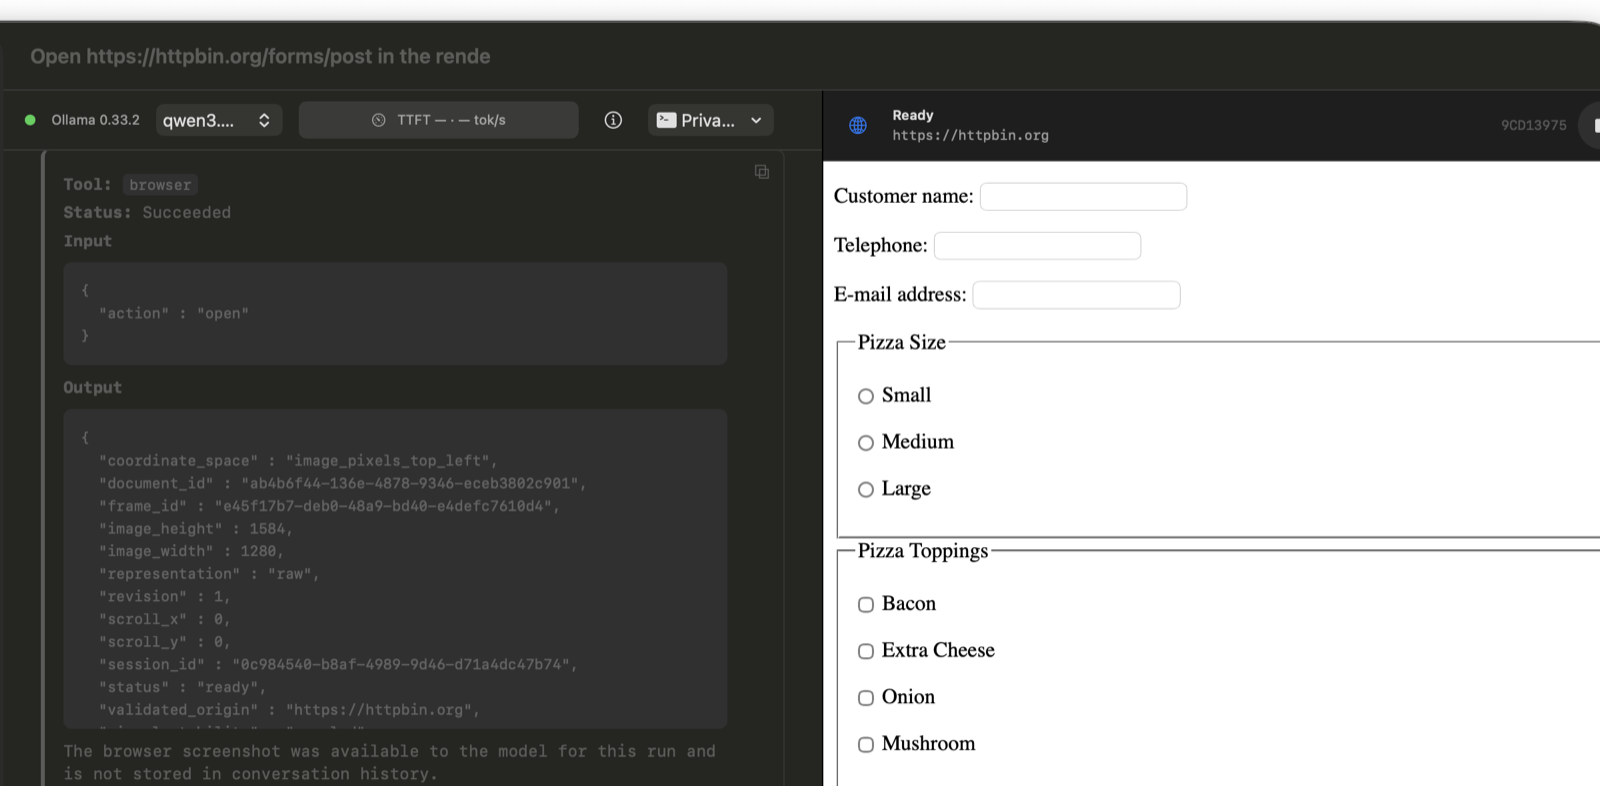
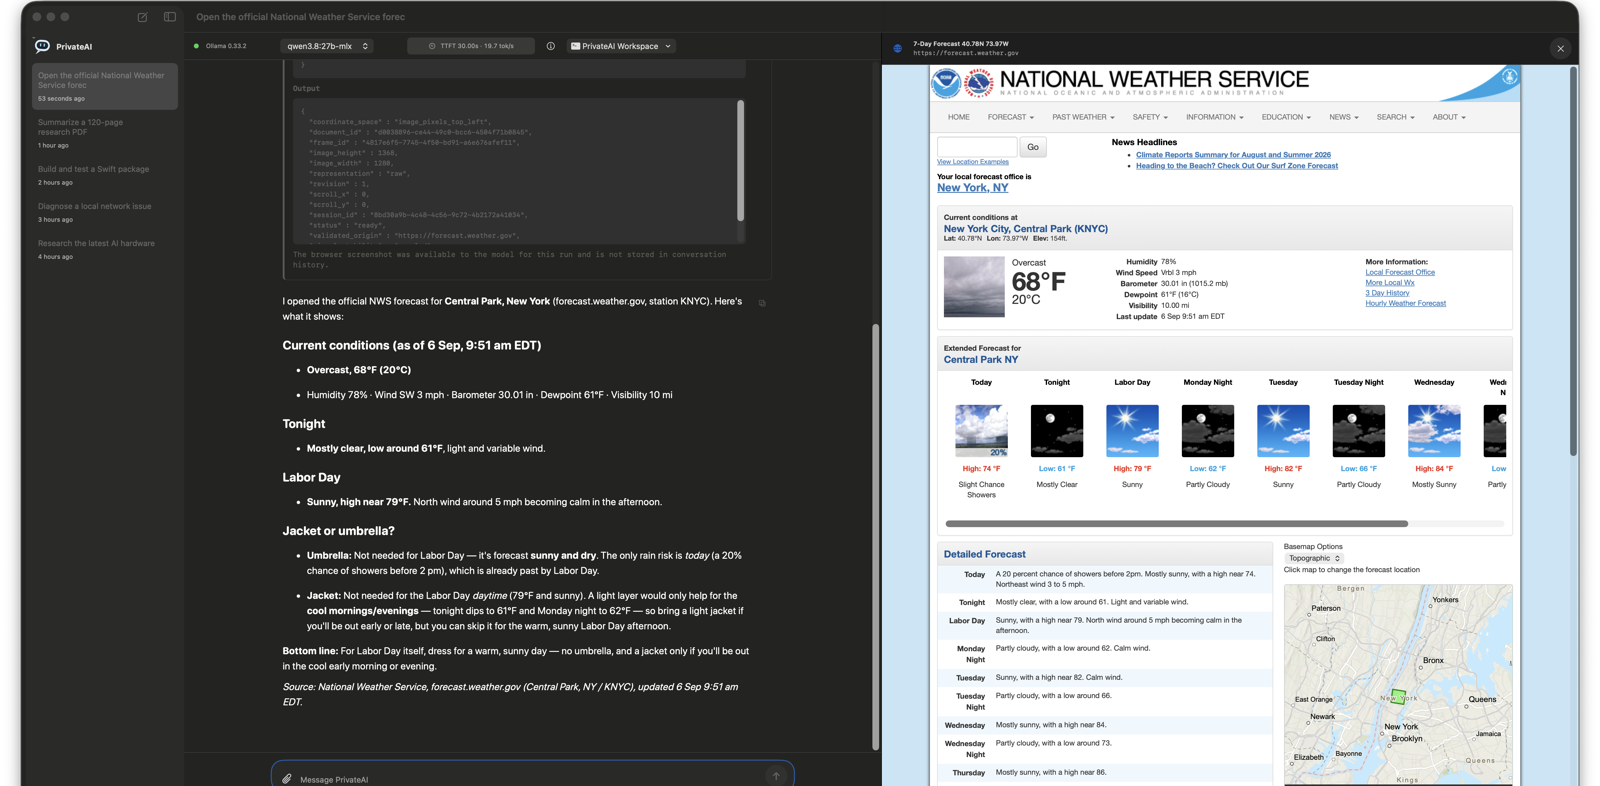
fix: serialize exclusive browser tool calls

diff --git a/Packages/LLMCore/Tests/LLMCoreTests/AgentRuntimeTests.swift b/Packages/LLMCore/Tests/LLMCoreTests/AgentRuntimeTests.swift
@@ -131,14 +131,15 @@ struct AgentRuntimeTests {
         #expect(toolMessages[1].images.map(\.data) == [Data([2])])
     }
 
-    @Test("rejects an exclusive Tool call with sibling calls before execution")
-    func rejectsExclusiveToolSiblingCalls() async throws {
+    @Test("executes only the exclusive Tool from a mixed proposal")
+    func executesOnlyExclusiveToolFromMixedProposal() async throws {
         let calls = [
-            ToolCall(function: ToolFunctionCall(name: "exclusive_probe", arguments: [:])),
-            ToolCall(function: ToolFunctionCall(name: "web", arguments: [:]))
+            ToolCall(function: ToolFunctionCall(name: "web", arguments: [:])),
+            ToolCall(function: ToolFunctionCall(name: "exclusive_probe", arguments: [:]))
         ]
         let provider = ScriptedProvider(responses: [
-            [.toolCalls(calls), .completed(ModelUsage())]
+            [.toolCalls(calls), .completed(ModelUsage())],
+            [.text("Completed after the exclusive call."), .completed(ModelUsage())]
         ])
         let exclusive = ExclusiveRecordingTool()
         let regular = RecordingTool()
@@ -148,11 +149,19 @@ struct AgentRuntimeTests {
             configuration: AgentConfiguration(model: "fixture", automaticallyWarmsUp: false)
         )
 
-        await #expect(throws: AgentRuntimeError.exclusiveToolCallConflict("exclusive_probe")) {
-            try await runtime.run(prompt: "Act twice")
-        }
-        #expect(await exclusive.executionCount == 0)
+        let result = try await runtime.run(prompt: "Act twice")
+        let requests = await provider.recordedRequests
+
+        #expect(result.text == "Completed after the exclusive call.")
+        #expect(result.performance.toolCallCount == 1)
+        #expect(await exclusive.executionCount == 1)
         #expect(await regular.executionCount == 0)
+        #expect(requests.count == 2)
+        #expect(requests[1].messages.last?.role == .tool)
+        #expect(requests[1].messages.last?.toolName == "exclusive_probe")
+        #expect(requests[1].messages.dropLast().last?.toolCalls?.map(\.function.name) == [
+            "exclusive_probe"
+        ])
     }
 
     @Test("corrects a thinking-only final round without tools or thinking")

diff --git a/Packages/LLMCore/Sources/LLMCore/AgentRuntime.swift b/Packages/LLMCore/Sources/LLMCore/AgentRuntime.swift
@@ -436,9 +436,7 @@ public actor AgentRuntime {
 
             if proposedCalls.count > 1,
                let exclusiveCall = await firstExclusiveCall(in: proposedCalls) {
-                throw AgentRuntimeError.exclusiveToolCallConflict(
-                    exclusiveCall.function.name
-                )
+                proposedCalls = [exclusiveCall]
             }
 
             if shouldFinalizeWithoutTools {

diff --git a/README.md b/README.md
@@ -99,7 +99,7 @@ Read the full [Privacy Policy](docs/privacy-policy.md) and [Security Policy](SEC
 
 Download `PrivateAI.dmg` and `PrivateAI.dmg.sha256` from the [latest GitHub Release](https://github.com/jacobjiangwei/Private-AI-on-your-device/releases/latest). Releases are Developer ID signed, notarized by Apple, stapled, and Gatekeeper-validated in CI.
 
-Verify the downloaded image:
+Optional: verify the downloaded image checksum:
 
 ```bash
 shasum -a 256 -c PrivateAI.dmg.sha256
